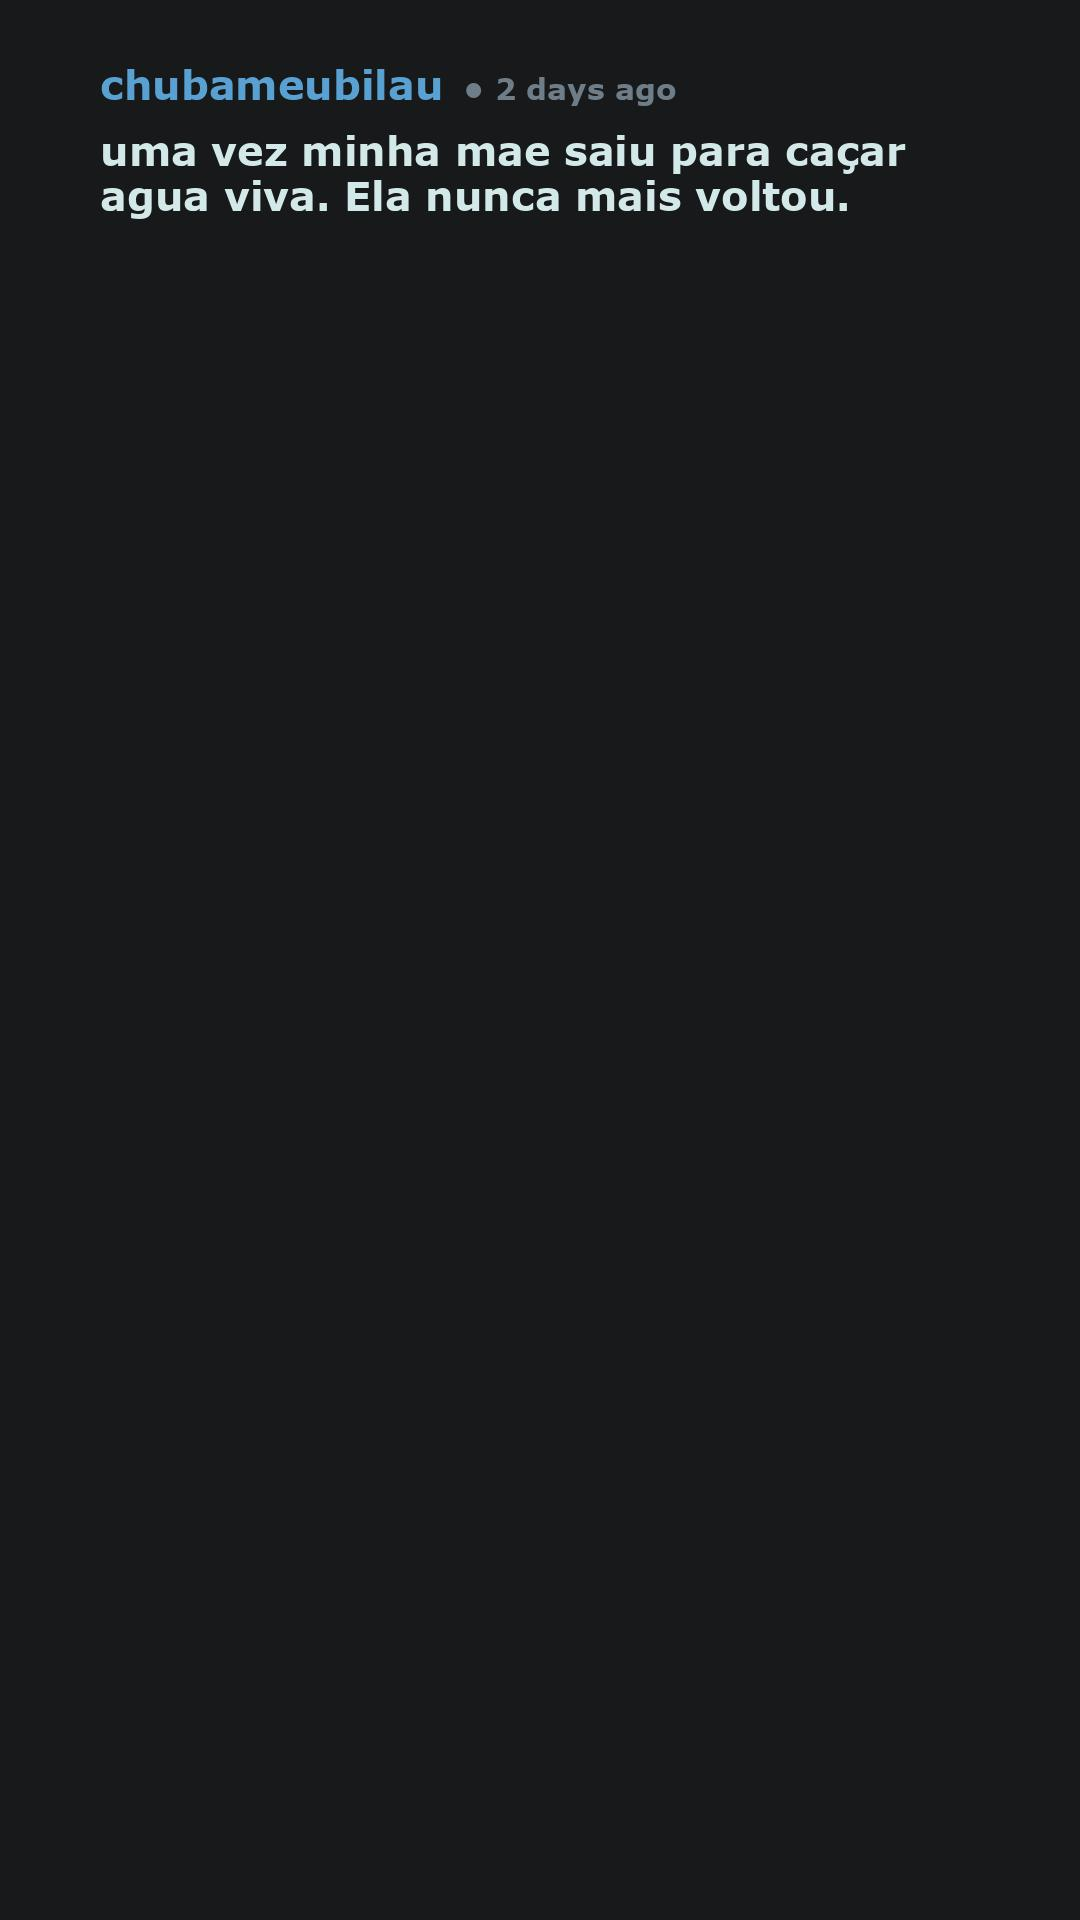
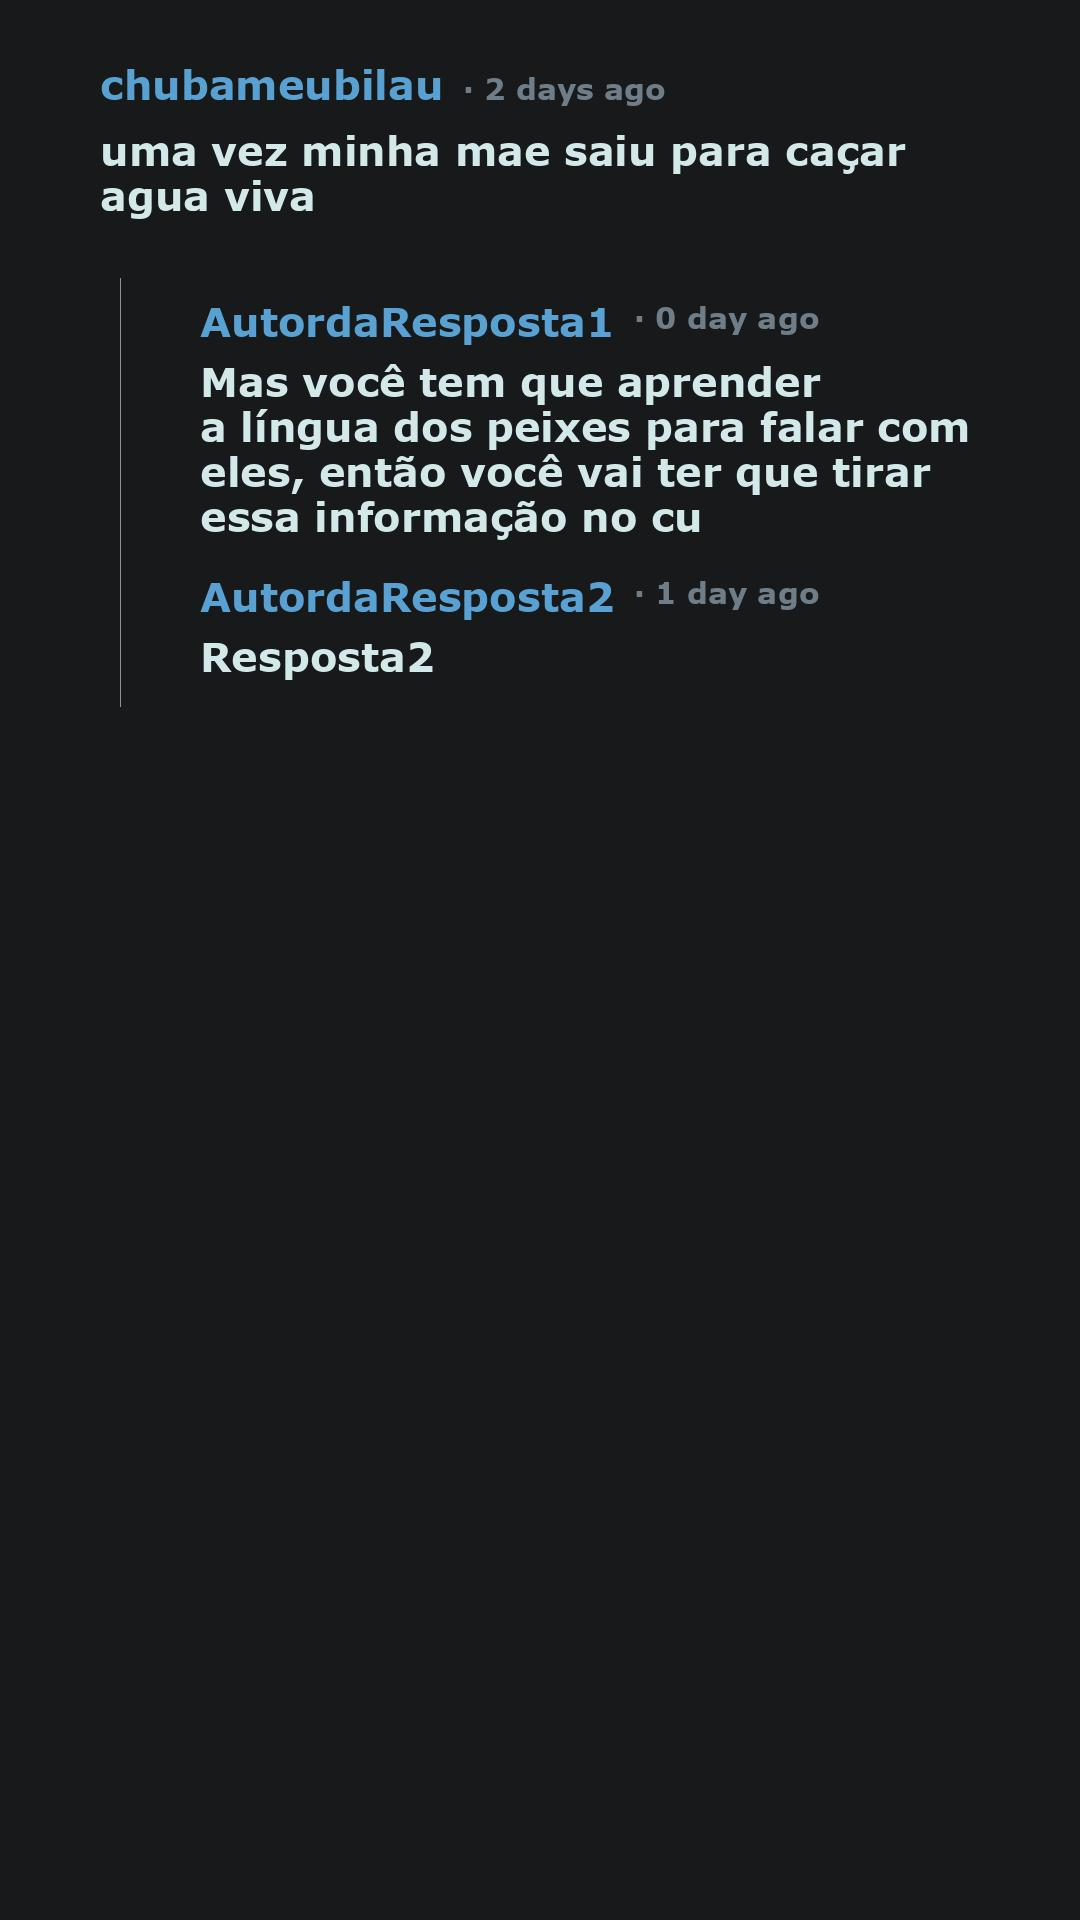
get_images.py script is ready to get images from json comments

diff --git a/get_images/get_images.py b/get_images/get_images.py
@@ -40,34 +40,73 @@ def breakline_text(text, max_width_px):
     final_phrase = '\n'.join(final_phrase_list)
     return final_phrase
 
-
 def drawImage(json_obj, y_location=100):
 
+    #y_location variable is working like a "pointer", poiting to a specifically y_location
 
     for i in range(len(json_obj)):
         image = Image.new('RGB', (1080,1920), color=cl1)
         draw = ImageDraw.Draw(image)
 
-        font_type_size = font_type.getsize(json_obj[i]['autor']) #return (x,y)
-        font_type_size_data = font_type_data.getsize(json_obj[i]['data']) #return (x,y)
-
-        draw.text(xy=(100, y_location), text=json_obj[i]['autor'], fill=(89, 161, 210), font=font_type, anchor='ls')
+        text_width_size = font_type.getsize(json_obj[i]['autor']) #return (x,y) -> (comprimento, altura), se o texto for multile, usa getsize_multiline()
         
-        draw.text(xy=(100+font_type_size[0]+HORIZONTAL_SPACE_VALUE, y_location), text="• "+json_obj[i]['data'], fill=(110, 125, 135), font=font_type_data, anchor='ls')
+
+        # Draw the commment
+        draw.text(xy=(100, y_location), text=json_obj[i]['autor'], fill=(89, 161, 210), font=font_type, anchor='ls')
+        draw.text(xy=(100+text_width_size[0]+HORIZONTAL_SPACE_VALUE, y_location), text=json_obj[i]['data'], fill=(110, 125, 135), font=font_type_data, anchor='ls')
 
         final_phrase = breakline_text(json_obj[i]['comentario'], HORIZONTAL_BOUNDARY_MULTILINETEXT)
         draw.multiline_text(xy=(100, y_location + VERTICAL_SPACE_VALUE), text=final_phrase, fill=(cl2), font=font_type)
-    
+
+        y_location += VERTICAL_SPACE_VALUE
+
+        # Draw the 1(first) response
+        y_location += font_type.getsize_multiline(final_phrase)[1] + VERTICAL_SPACE_VALUE + 70
+
+        autorResp_width_size = font_type.getsize(json_obj[i]['respostas'][0]['autor_resp'])
+
+        draw.text(xy=(200, y_location), text=json_obj[i]['respostas'][0]['autor_resp'], fill=(89, 161, 210), font=font_type, anchor='lt')
+        draw.text(xy=(200+autorResp_width_size[0]+HORIZONTAL_SPACE_VALUE, y_location), text=json_obj[i]['respostas'][0]['data_resp'], fill=(110, 125, 135), font=font_type_data, anchor='lt')
+
+        final_phrase_resp1 = breakline_text(json_obj[i]['respostas'][0]['comentario_resp'], HORIZONTAL_BOUNDARY_MULTILINETEXT)
+        draw.multiline_text(xy=(200, y_location + 2*VERTICAL_SPACE_VALUE), text=final_phrase_resp1, fill=(cl2), font=font_type, anchor='la')
+
+        # Draw the 2(second) response
+        resp1_total_height = y_location + 2*VERTICAL_SPACE_VALUE + font_type.getsize(json_obj[i]['respostas'][0]['autor_resp'])[1] + font_type.getsize_multiline(final_phrase_resp1)[1]
+
+        y_location = resp1_total_height
+
+        draw.text(xy=(200, y_location), text=json_obj[i]['respostas'][1]['autor_resp'], fill=(89, 161, 210), font=font_type, anchor='lt')
+        draw.text(xy=(200+autorResp_width_size[0]+HORIZONTAL_SPACE_VALUE, y_location), text=json_obj[i]['respostas'][1]['data_resp'], fill=(110, 125, 135), font=font_type_data, anchor='lt')
+
+        final_phrase_resp2 = breakline_text(json_obj[i]['respostas'][1]['comentario_resp'], HORIZONTAL_BOUNDARY_MULTILINETEXT)
+        draw.multiline_text(xy=(200, y_location + 2*VERTICAL_SPACE_VALUE), text=final_phrase_resp2, fill=(cl2), font=font_type, anchor='la')
+
+        y_location_final = y_location + 2*VERTICAL_SPACE_VALUE
+        
+        #Draw Vertical line (aesthetic)
+        #voltando para a altura do primeiro comentário (linha do resp1_total_height ...)
+        
+        y_location -= 2*VERTICAL_SPACE_VALUE + 2*font_type.getsize(json_obj[i]['respostas'][0]['autor_resp'])[1] + font_type.getsize_multiline(final_phrase_resp2)[1] + font_type.getsize_multiline(final_phrase_resp1)[1] #apontando para o fim do comentário(principal)
+        
+        h_initial = y_location + 2.5*VERTICAL_SPACE_VALUE
+        h_final = y_location_final + 3*VERTICAL_SPACE_VALUE
+
+        if final_phrase_resp1 == " ": h_final = h_initial
+        if (final_phrase_resp2 == " ") and (final_phrase_resp1 != " "): h_final -= 6*VERTICAL_SPACE_VALUE
+
+        draw.line(xy=[(120, h_initial), (120, h_final)], width=1, fill=(142, 145, 151))
 
         image.save("get_images/images/image_test" + str(i) +".jpeg")
+        y_location = 100
+
 
 
 # Opening JSON file
 with open('comments_script.json', 'r') as openfile:
     json_object = load(openfile) #json.load()
 
-#text_manipulation = json_obj[i]['comentario']
-#breakline_text(text_manipulation, HORIZONTAL_BOUNDARY_MULTILINETEXT)
+
 drawImage(json_object)
 
 
